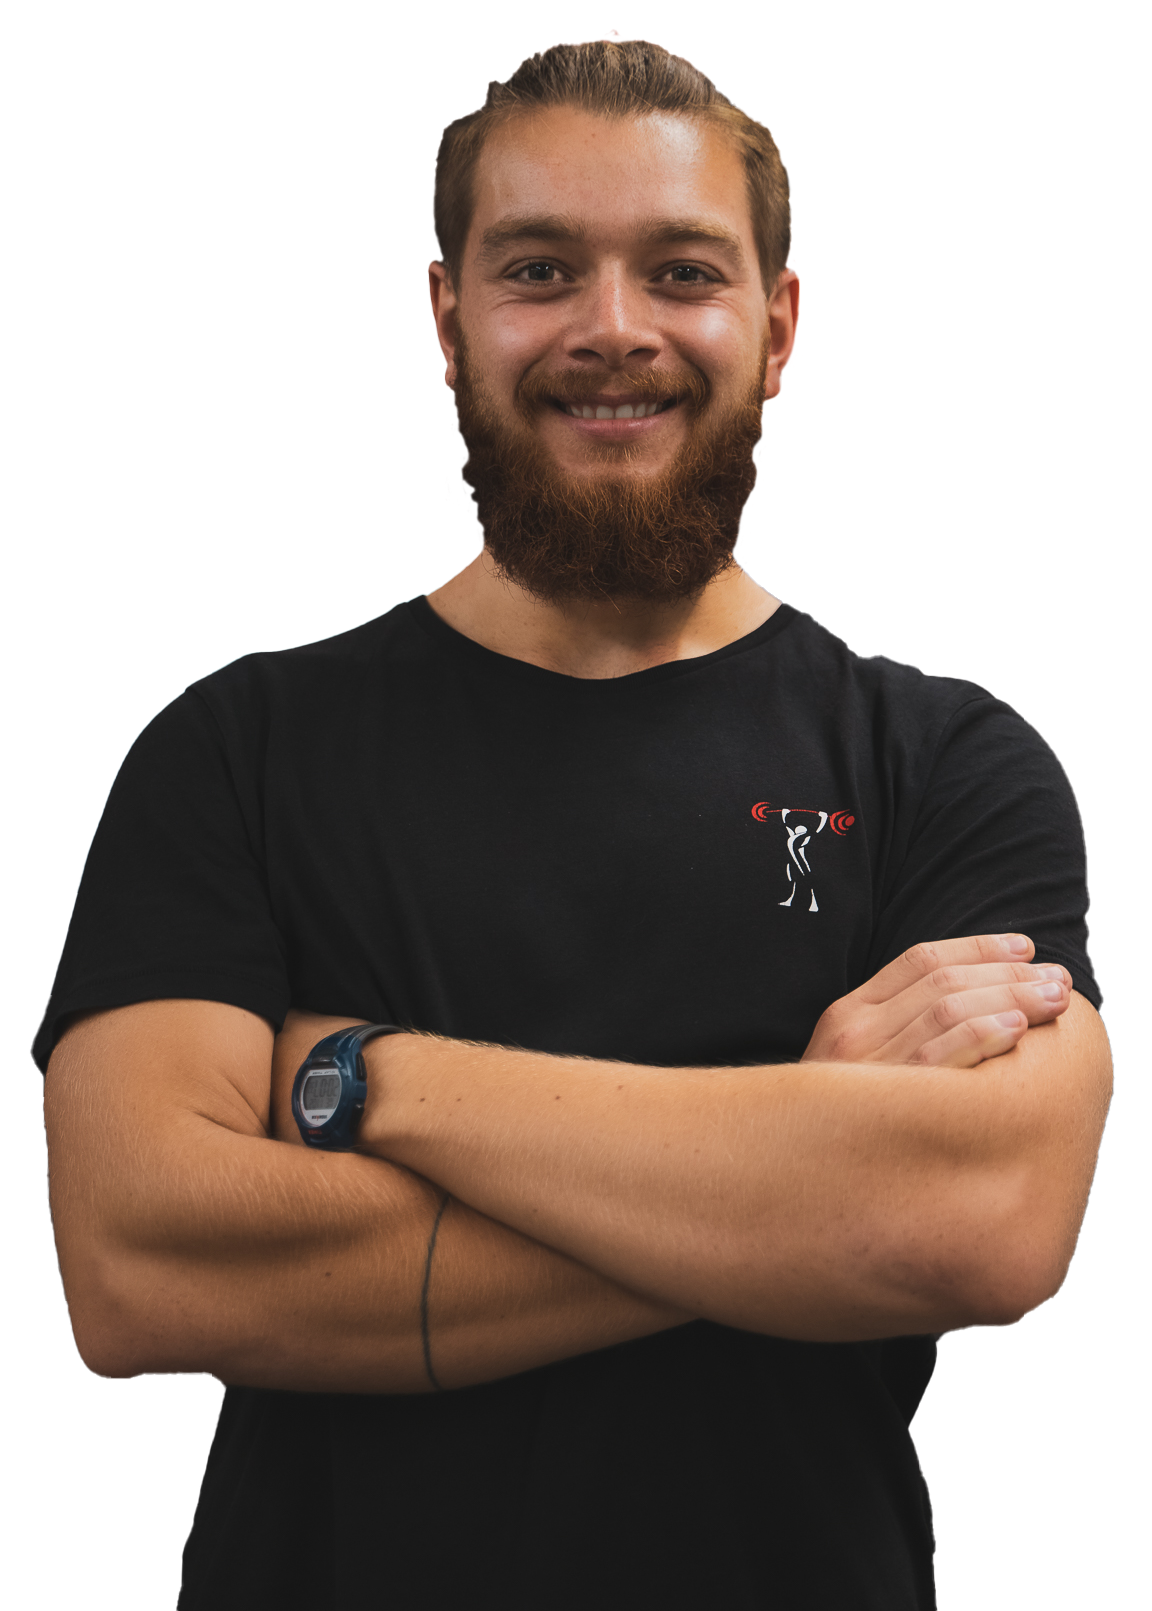
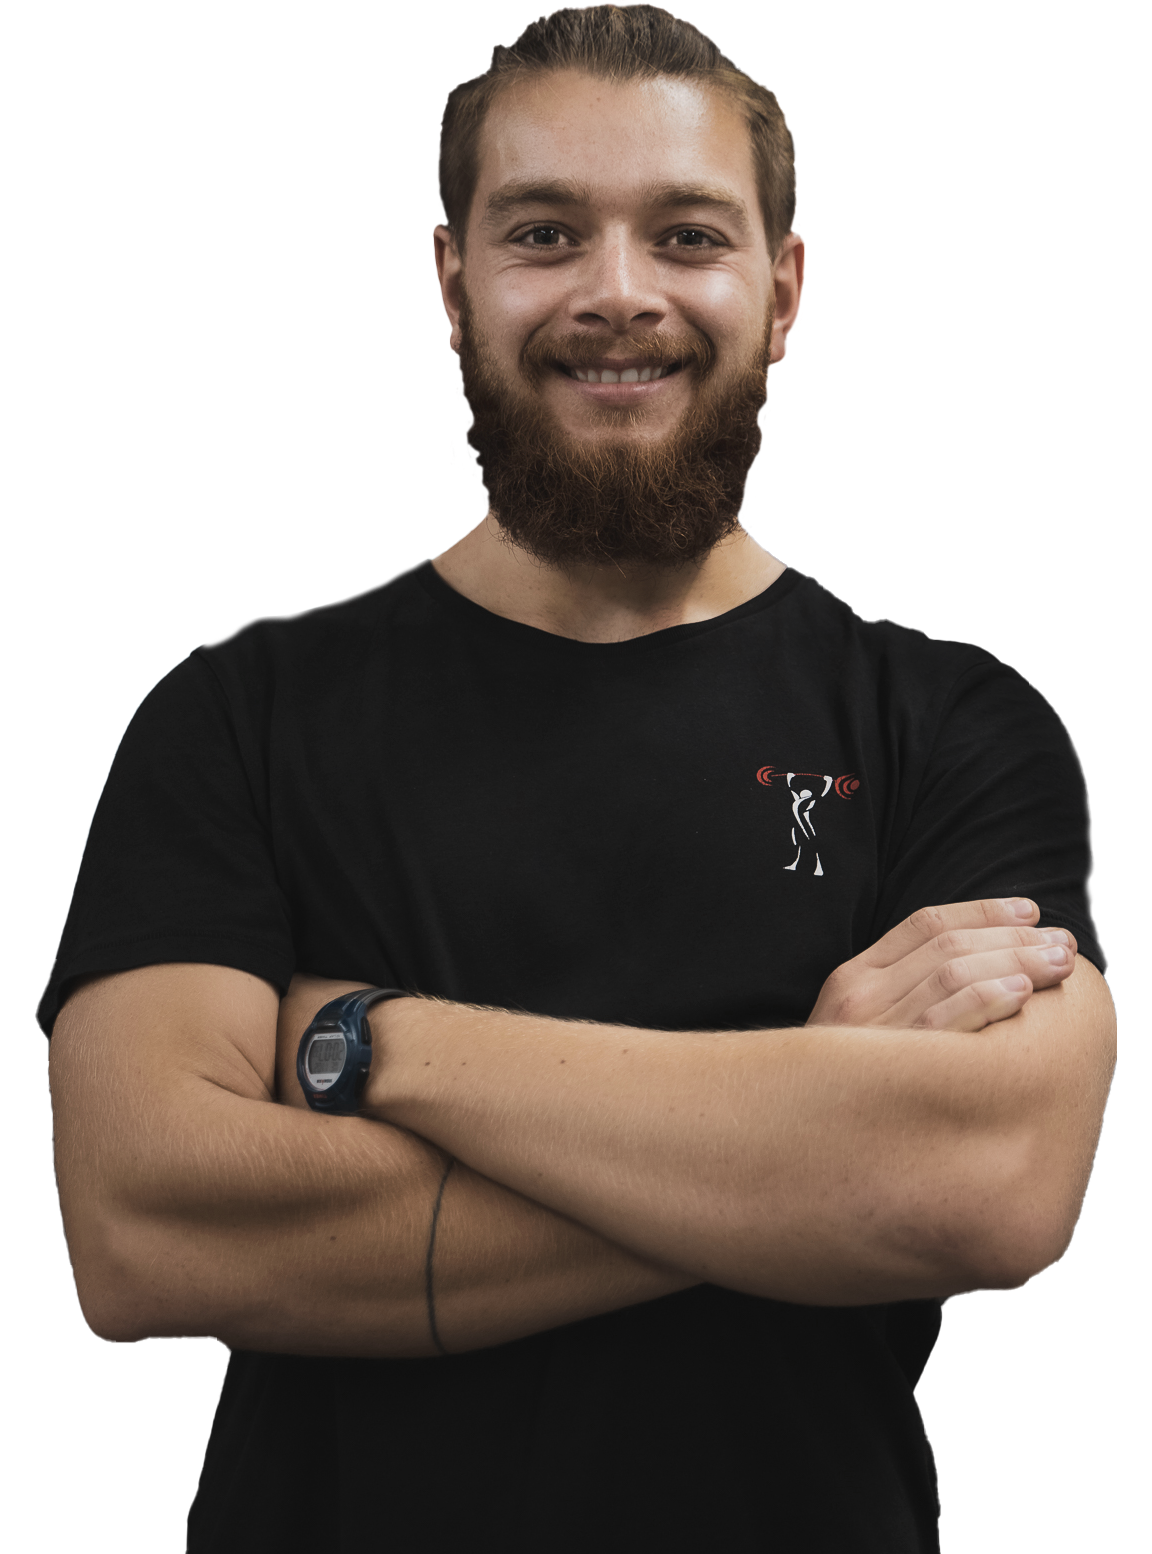
team images

diff --git a/pages/nosotros.js b/pages/nosotros.js
@@ -26,47 +26,61 @@ const Nosotros = () => {
       <div className="fundador">
         <h1>NUESTROS COACHES:</h1>
         <div className="grup">
-          <img className="man" src="/images/coach1.png" alt="man" />
+          <img className="man" src="/images/coach2.png" alt="man" />
           <div className="sideDe">
-            <h2>SERGIO NUELL</h2>
+            <h2>JORDI GARCÍA</h2>
             <h3>
-              Lorem Ipsum is simply dummy text of the printing and typesetting
-              industry. Lorem Ipsum has been the industry's standard dummy text
-              ever since the 1500s, when an unknown printer took a galley of
-              type and scrambled it to make a type specimen book. It has
-              survived not only five centuries, but also the leap into
-              electronic typesetting, remaining essentially unchanged.
+              Mi trayectoria en el mundo del acondicionamiento físico empieza 11
+              años atrás practicando disciplinas como calistenia y
+              powerbuilding. absorviendo lo mejor de cada sistema de
+              entrenamiento para ir puliendo mis conocimientos y habilidades a
+              la hora de entrenarme a mi y a mis clientes. He trabajado durante
+              5 años en distintos centros aprendiendo nuevas metodologías de
+              trabajo y formándome como entrenador. Mis conocimientos vienen de
+              la lectura y sobre todo la formación.
+              <br />
+              <br /> - CFGS acondicionamiento físico (CAR Sant Cugat) <br />-
+              Máster en fisioterapia (Grupo ESNECA) <br />- Máster en
+              rehabilitación y prevención de lesiones (Grupo ESNECA) <br />-
+              Curso Formativo Entrenamientos EPOC (ANEF) <br />- Curso Formativo
+              Entrenamientos Periodo de embarazo (ANEF)
             </h3>
           </div>
         </div>
         <div className="grup">
           <div className="sideIz">
-            <h2>HERNAN GARCÍA</h2>
+            <h2>HERNAN GARCÍA, 26 años</h2>
             <h3>
-              Lorem Ipsum is simply dummy text of the printing and typesetting
-              industry. Lorem Ipsum has been the industry's standard dummy text
-              ever since the 1500s, when an unknown printer took a galley of
-              type and scrambled it to make a type specimen book. It has
-              survived not only five centuries, but also the leap into
-              electronic typesetting, remaining essentially unchanged.
+              ex levantador internacional integrante del equipo nacional y
+              becado en el Centro de Alto Rendimiento durante 8 años. <br />
+              Formado en entrenamiento personal y con 20 años de experiencia en
+              el mundo de la halterofilia.
             </h3>
           </div>
           <img className="man" src="/images/hernan.png" alt="man" />
         </div>
-        <div className="grup">
+        {/* <div className="grup">
           <img className="man" src="/images/coach1.png" alt="man" />
           <div className="sideDe">
             <h2>JORDI GARCÍA</h2>
             <h3>
-              Lorem Ipsum is simply dummy text of the printing and typesetting
-              industry. Lorem Ipsum has been the industry's standard dummy text
-              ever since the 1500s, when an unknown printer took a galley of
-              type and scrambled it to make a type specimen book. It has
-              survived not only five centuries, but also the leap into
-              electronic typesetting, remaining essentially unchanged.
+              Mi trayectoria en el mundo del acondicionamiento físico empieza 11
+              años atrás practicando disciplinas como calistenia y
+              powerbuilding. absorviendo lo mejor de cada sistema de
+              entrenamiento para ir puliendo mis conocimientos y habilidades a
+              la hora de entrenarme a mi y a mis clientes. He trabajado durante
+              5 años en distintos centros aprendiendo nuevas metodologías de
+              trabajo y formándome como entrenador. Mis conocimientos vienen de
+              la lectura y sobre todo la formación.
+              <br />
+              <br /> - CFGS acondicionamiento físico (CAR Sant Cugat) <br />-
+              Máster en fisioterapia (Grupo ESNECA) <br />- Máster en
+              rehabilitación y prevención de lesiones (Grupo ESNECA) <br />-
+              Curso Formativo Entrenamientos EPOC (ANEF) <br />- Curso Formativo
+              Entrenamientos Periodo de embarazo (ANEF)
             </h3>
           </div>
-        </div>
+        </div> */}
       </div>
     </div>
   );

diff --git a/pages/online.js b/pages/online.js
@@ -9,7 +9,7 @@ const Online = () => {
     <div className="online">
       <Link href="/online/personalizado">
         <a>
-          <div className="programas animate__animated animate__fadeInLeft">
+          <div className="programas animate__animated animate__zoomIn">
             <img
               className="boton"
               src="/images/1PERSONALIZADO.png"
@@ -27,7 +27,7 @@ const Online = () => {
       </Link>
       <Link href="/online/programas">
         <a>
-          <div className="programas animate__animated animate__fadeInLeft">
+          <div className="programas animate__animated animate__zoomIn">
             <img className="boton" src="/images/2PROGRAMAS.png" alt="logo" />
 
             <div className="enlace">
@@ -42,7 +42,7 @@ const Online = () => {
       </Link>
       <Link href="/online/streaming">
         <a>
-          <div className="programas animate__animated animate__fadeInLeft">
+          <div className="programas animate__animated animate__zoomIn">
             <img className="boton" src="/images/13STREAMING.png" alt="logo" />
 
             <div className="enlace">

diff --git a/pages/presenciales.js b/pages/presenciales.js
@@ -9,7 +9,7 @@ const Presenciales = () => {
     <div className="presenciales">
       <Link href="/presenciales/formaciones">
         <a>
-          <div className="formaciones animate__animated animate__fadeInLeft">
+          <div className="formaciones animate__animated animate__zoomIn">
             <img className="boton" src="/images/4FORMACIONES.png" alt="logo" />
             <div className="enlace">
               <h1>FORMACIONES PRESENCIALES</h1>
@@ -20,7 +20,7 @@ const Presenciales = () => {
       </Link>
       <Link href="/presenciales/clases">
         <a>
-          <div className="formaciones animate__animated animate__fadeInLeft">
+          <div className="formaciones animate__animated animate__zoomIn">
             <img className="boton" src="/images/14CLASES.png" alt="logo" />
             <div className="enlace">
               <h1>CLASES PRESENCIALES</h1>

diff --git a/pages/nosotros.scss b/pages/nosotros.scss
@@ -14,7 +14,6 @@
     width: 70vw;
     display: flex;
     flex-direction: column;
-    margin-bottom: 60px;
 
     h1 {
       font-size: 55px;
@@ -28,7 +27,7 @@
       align-items: center;
       justify-content: space-around;
       height: 500px;
-      margin: 0 0 40px;
+      margin: 0 0 100px;
       .man {
         height: 500px;
       }
@@ -43,7 +42,7 @@
         text-align: justify;
 
         h2 {
-          margin: 0 0 20px;
+          margin: -30px 0 10px;
           font-size: 30px;
           background-color: $detalles;
           width: 100%;
@@ -65,8 +64,8 @@
         width: 35vw;
         margin-left: 50px;
         h2 {
-          margin: 0 0 20px;
-          font-size: 35px;
+          margin: -30px 0 10px;
+          font-size: 30px;
           background-color: $detalles;
           width: 100%;
           padding-left: 20px;

diff --git a/pages/index.js b/pages/index.js
@@ -210,14 +210,11 @@ export default function Home() {
       <div className="sobrenosotros">
         <div className="iz">
           <h1>NUESTRO EQUIPO</h1>
-          <img className="team" src="/images/team.png" alt="team" />
+          <img className="team" src="/images/equipo.png" alt="team" />
         </div>
         <div className="de">
           <div className="wrap">
-            <h2>
-              CONOCE MÁS SOBRE NOSOTROS Y SOBRE LA HISTORIA DEL <br /> CLUB
-              HALTEROFILIA BARCELONA
-            </h2>
+            <h2>CONOCE MÁS SOBRE EL EQUIPO Y EL CLUB HALTEROFILIA BARCELONA</h2>
             <Link href="/nosotros">
               <a>
                 <img

diff --git a/pages/index.scss b/pages/index.scss
@@ -230,9 +230,9 @@
     border-top: 3px solid $opacity;
     display: flex;
     flex-direction: column;
-    align-items: flex-start;
+    align-items: center;
     justify-content: center;
-    height: 80vh;
+    min-height: 70vh;
     width: 100%;
     h1 {
       font-size: 5vw;

diff --git a/pages/online/personalizado.js b/pages/online/personalizado.js
@@ -13,7 +13,7 @@ const Personalizado = () => {
           <span>
             <FiBarChart2 />
           </span>
-          NOS ADAPTAMOS A TI
+          ADAPTAMOS EL NIVEL PARA TI
         </h2>
         <h2>
           <span>

diff --git a/components/fichas/Fichas.scss b/components/fichas/Fichas.scss
@@ -116,7 +116,7 @@
       img {
         height: 200px;
         width: 350px;
-        filter: grayscale(0%);
+        filter: grayscale(40%);
         object-fit: cover;
       }
       h3 {

diff --git a/components/item/Item.scss b/components/item/Item.scss
@@ -78,6 +78,7 @@
     img {
       height: 200px;
       width: 350px;
+      filter: grayscale(40%);
       object-fit: cover;
     }
     .titulo {
